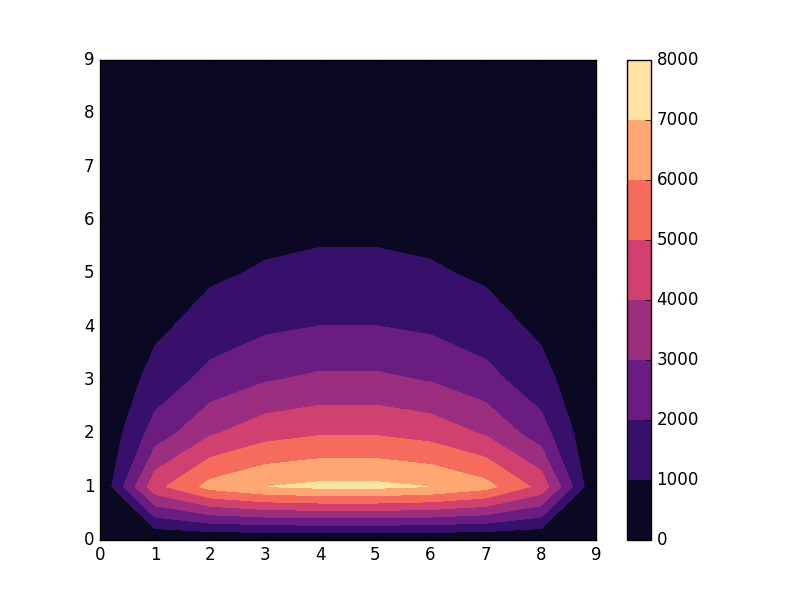
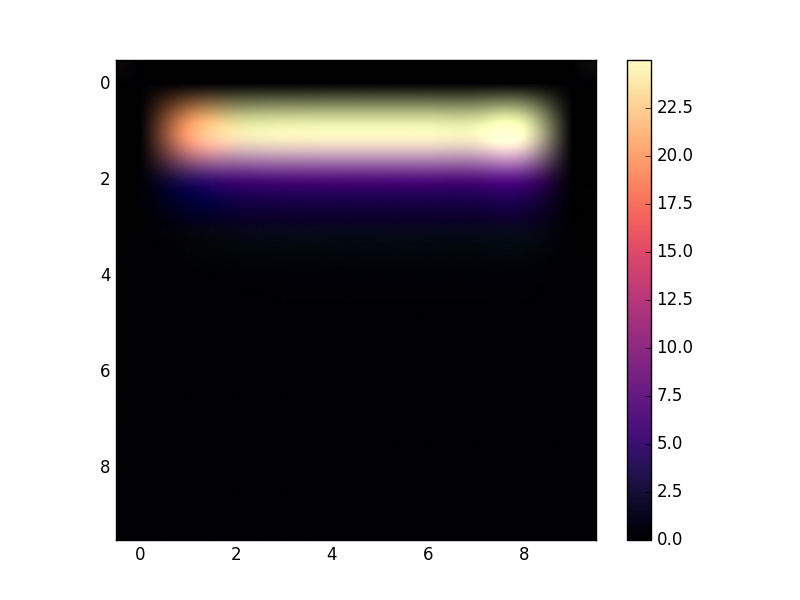
fertiges Programm, Plots

diff --git a/Poissongleichung/Poisson Potential0.py b/Poissongleichung/Poisson Potential0.py
@@ -21,7 +21,7 @@ y=np.arange(0,10,1)
 print(k)
 X,Y = np.meshgrid(x,y)
 plt.subplot(111)
-h=plt.contourf(X,Y,k,cmap='magma')
+h=plt.imshow(k,cmap='magma', interpolation = 'spline36')
 cbar=fig.colorbar(h)
 
 plt.show()

diff --git a/Poissongleichung/Poisson Potential2.py b/Poissongleichung/Poisson Potential2.py
@@ -21,7 +21,7 @@ y=np.arange(0,10,1)
 print(k)
 X,Y = np.meshgrid(x,y)
 plt.subplot(111)
-h=plt.contourf(X,Y,k,cmap='magma')
+h=plt.imshow(k,cmap='magma', interpolation = 'spline36')
 cbar=fig.colorbar(h)
 
 plt.show()
